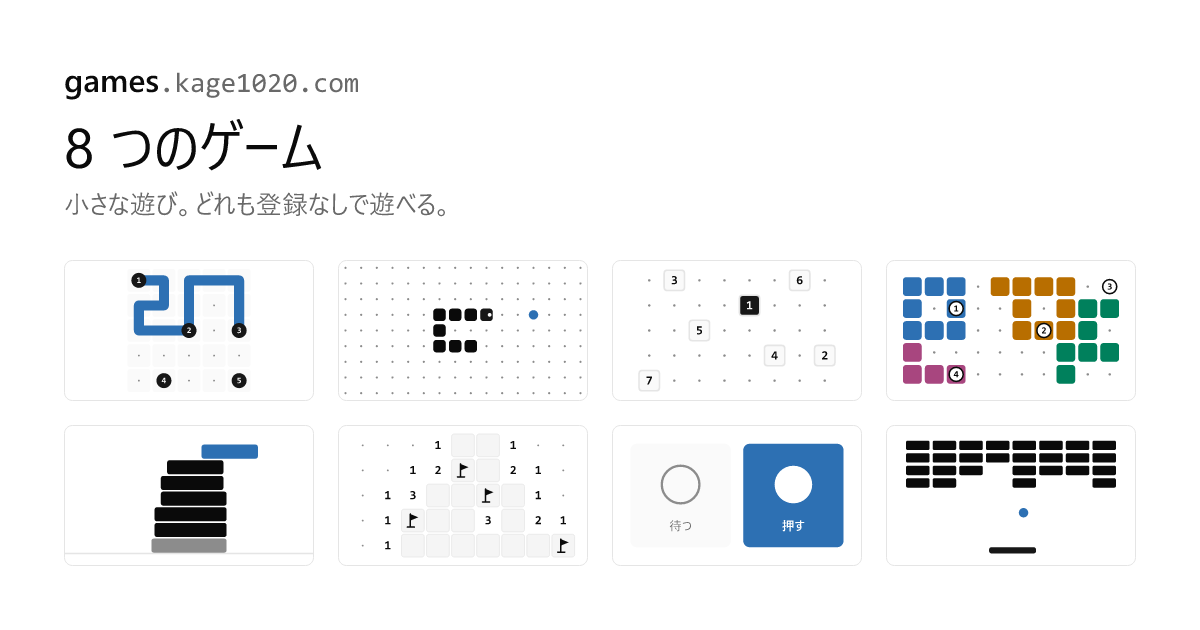
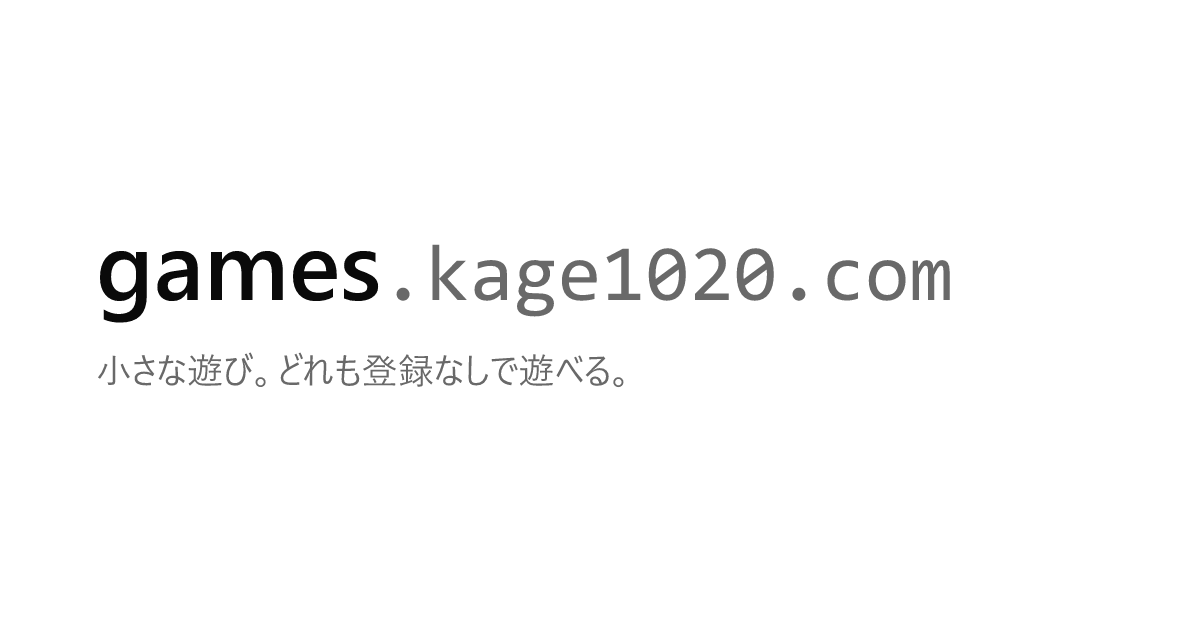
feat: keep the share image independent of the game list
Draw only the site name and the tagline on og.png instead of the game
count and every thumbnail, so adding a game no longer means regenerating
it. The SVG composition and variable resolution move to scripts/lib/og.ts
with tests, the build script no longer starts Vite, and the tagline is
shared with the home page.

Claude-Session: https://claude.ai/code/session_013q346a2y1NPYi7ZvmTACug

diff --git a/scripts/build-og.ts b/scripts/build-og.ts
@@ -1,16 +1,9 @@
 import { readFileSync, writeFileSync } from "node:fs";
 import { Resvg } from "@resvg/resvg-js";
-import { createServer } from "vite";
-import { SITE_DOMAIN, SITE_LABEL } from "../src/app/site.ts";
-import { alias } from "../vite.config.ts";
+import { SITE_DOMAIN, SITE_LABEL, SITE_TAGLINE } from "../src/app/site.ts";
 import { resolveThemeColors } from "./lib/color.ts";
+import { OG_WIDTH, ogSvg, resolveSvgVars } from "./lib/og.ts";
 import type { Tokens } from "./lib/tokens-to-css.ts";
-
-const WIDTH = 1200;
-const HEIGHT = 630;
-const MARGIN = 64;
-const GAP = 24;
-const COLUMNS = 4;
 
 // 絵にする道具はシステムのフォントを名前で探すので、トークンの並びのうち手元にあるものを先に書く
 const FONTS = {
@@ -18,66 +11,20 @@ const FONTS = {
   mono: "Consolas, Menlo, 'DejaVu Sans Mono', monospace",
 };
 
-type Thumb = { id: string; title: string; svg: string };
-
 const tokens = JSON.parse(
   readFileSync(new URL("../src/design-system/vendor/tokens.json", import.meta.url), "utf8"),
 ) as Tokens;
-const colors = resolveThemeColors(tokens, "light");
 
-/** CSS 変数を値にし、絵にする道具が読まない font の一括指定を個別の指定に開く */
-function resolveVars(svg: string): string {
-  return svg
-    .replace(/var\(--font-(sans|mono)\)/g, (_, key: "sans" | "mono") => FONTS[key])
-    .replace(/var\(--([a-z0-9-]+)\)/g, (match, name: string) => colors[name] ?? match)
-    .replace(
-      /font:\s*(\d+)\s+([\d.]+)px\s+([^;"]+)/g,
-      (_, weight: string, size: string, family: string) =>
-        `font-weight:${weight};font-size:${size}px;font-family:${family.trim()}`,
-    );
-}
-
-function place(thumb: Thumb, index: number, size: { width: number; height: number }): string {
-  const x = MARGIN + (index % COLUMNS) * (size.width + GAP);
-  const y = HEIGHT - MARGIN - (2 - Math.floor(index / COLUMNS)) * (size.height + GAP) + GAP;
-  const inner = thumb.svg.replace(
-    /^<svg /,
-    `<svg x="${x}" y="${y}" width="${size.width}" height="${size.height}" `,
-  );
-  return `${inner}<rect x="${x + 0.5}" y="${y + 0.5}" width="${size.width - 1}" height="${size.height - 1}" rx="8" fill="none" stroke="var(--line)"/>`;
-}
-
-const server = await createServer({
-  configFile: false,
-  logLevel: "error",
-  resolve: { alias },
-  server: { middlewareMode: true, hmr: false },
-  appType: "custom",
-});
-
-try {
-  const module = (await server.ssrLoadModule("/src/og/thumbs.tsx")) as {
-    renderThumbs: () => Thumb[];
-  };
-  const thumbs = module.renderThumbs();
-  const width = (WIDTH - MARGIN * 2 - GAP * (COLUMNS - 1)) / COLUMNS;
-  const size = { width, height: Math.round((width * 9) / 16) };
-  const svg = `<svg xmlns="http://www.w3.org/2000/svg" width="${WIDTH}" height="${HEIGHT}" viewBox="0 0 ${WIDTH} ${HEIGHT}">
-  <rect width="${WIDTH}" height="${HEIGHT}" fill="var(--bg)"/>
-  <text x="${MARGIN}" y="${MARGIN + 28}" style="font: 600 32px var(--font-sans)" fill="var(--ink)">${SITE_LABEL}<tspan style="font: 400 28px var(--font-mono)" fill="var(--ink-muted)">${SITE_DOMAIN}</tspan></text>
-  <text x="${MARGIN}" y="${MARGIN + 104}" style="font: 500 56px var(--font-sans)" fill="var(--ink)">${thumbs.length} つのゲーム</text>
-  <text x="${MARGIN}" y="${MARGIN + 150}" style="font: 400 26px var(--font-sans)" fill="var(--ink-muted)">小さな遊び。どれも登録なしで遊べる。</text>
-  ${thumbs.map((thumb, i) => place(thumb, i, size)).join("\n  ")}
-</svg>`;
-  const png = new Resvg(resolveVars(svg), {
-    fitTo: { mode: "width", value: WIDTH },
-    font: { loadSystemFonts: true, defaultFontFamily: "Yu Gothic UI" },
-  })
-    .render()
-    .asPng();
-  const target = new URL("../public/og.png", import.meta.url);
-  writeFileSync(target, png);
-  console.log(`wrote ${target.pathname} (${png.length} bytes)`);
-} finally {
-  await server.close();
-}
+const svg = resolveSvgVars(
+  ogSvg({ label: SITE_LABEL, domain: SITE_DOMAIN, tagline: SITE_TAGLINE }),
+  { colors: resolveThemeColors(tokens, "light"), fonts: FONTS },
+);
+const png = new Resvg(svg, {
+  fitTo: { mode: "width", value: OG_WIDTH },
+  font: { loadSystemFonts: true, defaultFontFamily: "Yu Gothic UI" },
+})
+  .render()
+  .asPng();
+const target = new URL("../public/og.png", import.meta.url);
+writeFileSync(target, png);
+console.log(`wrote ${target.pathname} (${png.length} bytes)`);

diff --git a/scripts/lib/og.ts b/scripts/lib/og.ts
@@ -1,0 +1,37 @@
+export const OG_WIDTH = 1200;
+export const OG_HEIGHT = 630;
+const MARGIN = 96;
+const NAME_BASELINE = 300;
+const TAGLINE_BASELINE = 384;
+
+export interface OgSite {
+  label: string;
+  domain: string;
+  tagline: string;
+}
+
+export interface SvgVars {
+  colors: Record<string, string>;
+  fonts: Record<"sans" | "mono", string>;
+}
+
+/** 帯と同じ組み方のサイト名と一文。色とフォントは CSS 変数のまま書く */
+export function ogSvg({ label, domain, tagline }: OgSite): string {
+  return `<svg xmlns="http://www.w3.org/2000/svg" width="${OG_WIDTH}" height="${OG_HEIGHT}" viewBox="0 0 ${OG_WIDTH} ${OG_HEIGHT}">
+  <rect width="${OG_WIDTH}" height="${OG_HEIGHT}" fill="var(--bg)"/>
+  <text x="${MARGIN}" y="${NAME_BASELINE}" style="font: 600 96px var(--font-sans)" fill="var(--ink)">${label}<tspan style="font: 400 80px var(--font-mono)" fill="var(--ink-muted)">${domain}</tspan></text>
+  <text x="${MARGIN}" y="${TAGLINE_BASELINE}" style="font: 400 36px var(--font-sans)" fill="var(--ink-muted)">${tagline}</text>
+</svg>`;
+}
+
+/** resvg は CSS 変数と font の一括指定を読まないので、値と個別の指定に開く */
+export function resolveSvgVars(svg: string, { colors, fonts }: SvgVars): string {
+  return svg
+    .replace(/var\(--font-(sans|mono)\)/g, (_, key: "sans" | "mono") => fonts[key])
+    .replace(/var\(--([a-z0-9-]+)\)/g, (match, name: string) => colors[name] ?? match)
+    .replace(
+      /font:\s*(\d+)\s+([\d.]+)px\s+([^;"]+)/g,
+      (_, weight: string, size: string, family: string) =>
+        `font-weight:${weight};font-size:${size}px;font-family:${family.trim()}`,
+    );
+}

diff --git a/scripts/lib/og.test.ts b/scripts/lib/og.test.ts
@@ -1,0 +1,31 @@
+import { describe, expect, it } from "vitest";
+import { ogSvg, resolveSvgVars } from "./og.ts";
+
+const SITE = { label: "games", domain: ".kage1020.com", tagline: "小さな遊び。" };
+
+describe("ogSvg", () => {
+  it("AC-I1 draws the site name and the tagline only", () => {
+    const svg = ogSvg(SITE);
+    expect(svg).toContain(">games<tspan");
+    expect(svg).toContain('fill="var(--ink-muted)">.kage1020.com</tspan>');
+    expect(svg).toContain(">小さな遊び。</text>");
+    expect(svg.match(/<svg\b/g)).toHaveLength(1);
+    expect(svg.match(/<text\b/g)).toHaveLength(2);
+  });
+});
+
+describe("resolveSvgVars", () => {
+  it("AC-I2 replaces variables and expands the font shorthand", () => {
+    const resolved = resolveSvgVars(ogSvg(SITE), {
+      colors: { bg: "#ffffff", ink: "#252525", "ink-muted": "#737373" },
+      fonts: { sans: "'Noto Sans JP', sans-serif", mono: "Consolas, monospace" },
+    });
+    expect(resolved).not.toContain("var(");
+    expect(resolved).not.toMatch(/font:/);
+    expect(resolved).toContain('fill="#737373">.kage1020.com');
+    expect(resolved).toContain("font-family:Consolas, monospace");
+    expect(resolved).toMatch(
+      /font-weight:600;font-size:\d+px;font-family:'Noto Sans JP', sans-serif/,
+    );
+  });
+});

diff --git a/src/pages/HomePage.tsx b/src/pages/HomePage.tsx
@@ -1,6 +1,6 @@
 import { useState } from "react";
 import { useGames } from "@/app/games-context.tsx";
-import { pageTitle } from "@/app/site.ts";
+import { pageTitle, SITE_TAGLINE } from "@/app/site.ts";
 import { ContentCard, Gallery, Segmented } from "@/design-system/index.ts";
 import { getModeRecord } from "@/platform/records/records.ts";
 import { recordsStore } from "@/platform/records/store.ts";
@@ -41,7 +41,7 @@ export function HomePage() {
       <div className="home-head">
         <div className="home-lead">
           <h1 className="figure">{visible.length} つのゲーム</h1>
-          <p className="small home-desc">小さな遊び。どれも登録なしで遊べる。</p>
+          <p className="small home-desc">{SITE_TAGLINE}</p>
         </div>
         <Segmented
           label="種類"

diff --git a/src/app/site.ts b/src/app/site.ts
@@ -2,6 +2,7 @@
 export const SITE_LABEL = "games";
 export const SITE_DOMAIN = ".kage1020.com";
 export const SITE_NAME = `${SITE_LABEL}${SITE_DOMAIN}`;
+export const SITE_TAGLINE = "小さな遊び。どれも登録なしで遊べる。";
 
 export function pageTitle(page?: string): string {
   return page ? `${page} — ${SITE_NAME}` : SITE_NAME;

diff --git a/docs/design.md b/docs/design.md
@@ -119,6 +119,10 @@ interface GameProps {
 - AC-T7 型スタイルごとに `.<name> { font-family; font-size; line-height; font-weight; letter-spacing? }` が出る。family はグループの family の変数。数値の `fontWeight` はそのまま、単位のない `lineHeight` はそのまま。
 - AC-T8 リポジトリの `tokens.css` は `vendor/tokens.json` から生成した結果と一致する。
 
+## AC-I 共有用の画像（`scripts/lib/og.ts`）
+- AC-I1 画像はサイト名（`games` を `ui-strong` 相当、`.kage1020.com` を等幅・`ink-muted`）と一文だけを描く。ゲームの数やサムネイルは描かない（ゲームを足しても作り直さなくてよい）。
+- AC-I2 絵にする前に `var(--<色>)` をライトテーマの色に、`var(--font-<key>)` をフォントの並びに置き換え、`font:` の一括指定を `font-weight`・`font-size`・`font-family` に開く（resvg は CSS 変数と一括指定を読まない）。
+
 ## AC-S 共有の規則（`shared/`）
 ### 目録 `catalog.ts`
 - AC-S1 8 つのゲーム id がある。各ゲームは 1 つ以上のモード、記録の向き（`asc` / `desc`）、記録の下限と上限を持つ。

diff --git a/README.md b/README.md
@@ -26,7 +26,7 @@ Cloudflare まわりは `cf`（Cloudflare CLI）で扱い、設定は `cloudflar
 | `pnpm check` | Biome |
 | `pnpm typecheck` | Worker の型を作り直してから TypeScript（アプリ・Worker・設定ファイルの 3 プロジェクト） |
 | `pnpm tokens` | `src/design-system/vendor/tokens.json` から `tokens.css` を作り直す |
-| `pnpm og` | 一覧のサムネイルから共有用の画像 `public/og.png` を作り直す（ゲームを足したとき） |
+| `pnpm og` | サイト名と一文から共有用の画像 `public/og.png` を作り直す（トークンかサイト名を変えたとき。ゲームを足しても要らない） |
 | `pnpm cf:types` | `cloudflare.config.ts` から `.cloudflare/types/index.d.ts`（`Env` と Workers の型）を作り直す |
 
 ## デザインシステムを更新するとき
